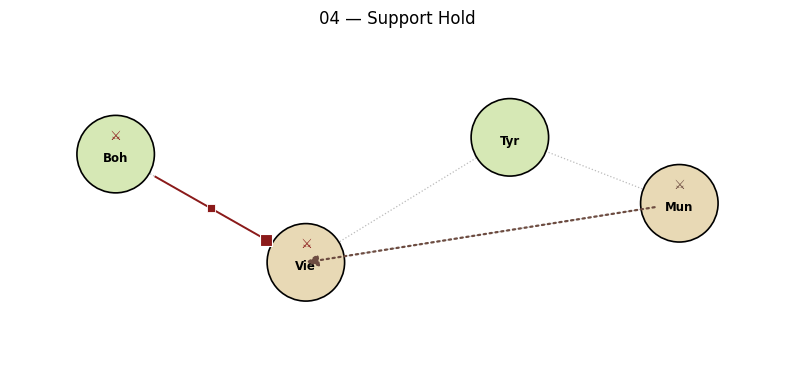
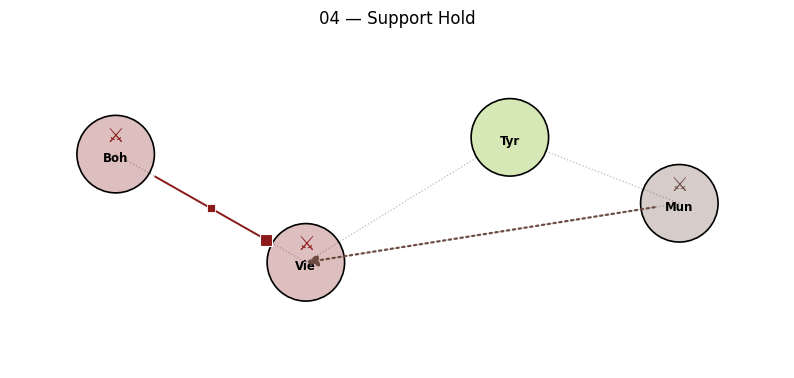
feat(dwex): nation-tinted node fills (alpha 0.28, occupied fields echo their unit's nation colour), unit symbols +50%, dotted full-Voronoi borders(fences) mode
- occupied circles: to_rgba(nation, 0.28) fill (empty fields keep terrain
  colour); dislodged X overlay slightly raised (no label collision)
- borders(fences): exact bounded Voronoi cells (half-plane clipping,
  Sutherland-Hodgman, pure python), dotted cell borders, edge-to-edge
  soap-bubble tiling; borders pragma documented in DWEX-language.md
- examples re-rendered (nation tint + bigger glyphs); x2 probe verified

Changed region(s): [[0.0907, 0.291, 0.2116, 0.5238], [0.3325, 0.582, 0.4534, 0.8148], [0.8463, 0.4656, 0.8766, 0.5238]]

diff --git a/project/dipworkpy/tools/dwex/render_png.py b/project/dipworkpy/tools/dwex/render_png.py
@@ -12,6 +12,7 @@ import numpy as np
 
 matplotlib.use("Agg")
 import matplotlib.pyplot as plt
+from matplotlib.colors import to_rgba
 from matplotlib.patches import Circle, FancyArrowPatch
 from matplotlib.path import Path as MplPath
 
@@ -452,45 +453,90 @@ def render_png(doc: DwexDocument, out: Path) -> None:
     #   "edges"  (default): subtle dotted light-gray segments between the
     #            neighbour centres; NEVER curved (visual contract: curves
     #            read as support arrows)
-    #   "fences" : Voronoi-style border lines — the perpendicular bisector
-    #            between each neighbouring pair, like map borders
+    #   "fences" : a FULL Voronoi diagram — every cell border is drawn as a
+    #            closed polygon (soap-bubble pattern covering the area,
+    #            DOTTED like the adjacency edges), computed by half-plane
+    #            clipping
     #   "none"   : suppress adjacency drawing entirely
     borders = (doc.pragmas.get("borders") or "edges").strip().lower()
     if borders not in ("edges", "fences", "none"):
         borders = "edges"
-    for e in doc.edges:
-        if e.a not in pos or e.b not in pos:
-            continue
-        x1, y1 = pos[e.a]
-        x2, y2 = pos[e.b]
-        if borders == "none":
-            continue
-        if borders == "edges":
+    if borders == "fences":
+        # Exact bounded Voronoi cells: start from the canvas rectangle and
+        # clip it against the perpendicular bisector toward every other
+        # node (Sutherland-Hodgman; keep the side of the cell's own node).
+        # Pure python, O(N^2) -- trivial for board-sized node counts.
+        pts_all = [pos[f.name] for f in doc.fields if f.name in pos]
+        xs_all = [p[0] for p in pos.values()]
+        ys_all = [p[1] for p in pos.values()]
+        pad = 0.6
+        bx0, bx1 = min(xs_all) - pad, max(xs_all) + pad
+        by0, by1 = min(ys_all) - pad, max(ys_all) + pad
+
+        def _clip_cell(px: float, py: float) -> List:
+            cell = [
+                (bx0, by0),
+                (bx1, by0),
+                (bx1, by1),
+                (bx0, by1),
+            ]
+            for qx, qy in pts_all:
+                if (qx, qy) == (px, py):
+                    continue
+                mx, my = (px + qx) / 2.0, (py + qy) / 2.0
+                # half-plane: keep points with (p - m) . (p0 - m) >= 0
+                cx, cy = px - mx, py - my
+                outp: List = []
+                n = len(cell)
+                for i in range(n):
+                    ax_, ay_ = cell[i]
+                    bx_, by_ = cell[(i + 1) % n]
+                    da = (ax_ - mx) * cx + (ay_ - my) * cy
+                    db = (bx_ - mx) * cx + (by_ - my) * cy
+                    if da >= 0:
+                        outp.append((ax_, ay_))
+                        if db < 0:
+                            t = da / (da - db)
+                            outp.append((ax_ + t * (bx_ - ax_), ay_ + t * (by_ - ay_)))
+                    elif db >= 0:
+                        t = da / (da - db)
+                        outp.append((ax_ + t * (bx_ - ax_), ay_ + t * (by_ - ay_)))
+                cell = outp
+                if not cell:
+                    break
+            return cell
+
+        for f in doc.fields:
+            if f.name not in pos:
+                continue
+            px, py = pos[f.name]
+            cell = _clip_cell(px, py)
+            if len(cell) < 3:
+                continue
+            xs = [p[0] for p in cell] + [cell[0][0]]
+            ys = [p[1] for p in cell] + [cell[0][1]]
+            ax.plot(xs, ys, color="#9a9a9a", linestyle=":", lw=1.1, zorder=1)
+    else:
+        for e in doc.edges:
+            if e.a not in pos or e.b not in pos:
+                continue
+            x1, y1 = pos[e.a]
+            x2, y2 = pos[e.b]
+            if borders == "none":
+                continue
             ax.plot([x1, x2], [y1, y2], color="#bbbbbb", linestyle=":", lw=0.9, zorder=1)
-        else:  # fences — perpendicular bisector between the neighbours
-            mx, my = (x1 + x2) / 2.0, (y1 + y2) / 2.0
-            dx, dy = x2 - x1, y2 - y1
-            length = math.hypot(dx, dy) or 1.0
-            nx, ny = -dy / length, dx / length
-            half = 0.6 * length / 2.0
-            other = [math.hypot(pos[o][0] - mx, pos[o][1] - my) for o in pos if o not in (e.a, e.b)]
-            if other:
-                half = min(half, min(other) / 2.0)
-            ax.plot(
-                [mx - nx * half, mx + nx * half],
-                [my - ny * half, my + ny * half],
-                color="#bbbbbb",
-                linestyle=":",
-                lw=1.1,
-                zorder=1,
-            )
     # fields — the field NAME lives INSIDE the circle (arrowheads land at the
-    # circle edge and stay visible instead of disappearing under a label);
-    # the unit is drawn as a nation-coloured icon in the circle's top:
-    # A = filled square, F = filled triangle.
+    # circle edge and stay visible instead of disappearing under a label).
+    # Occupied fields are tinted with the sitting unit's NATION colour at
+    # ~20% opacity so the circle visually belongs to the same nation as its
+    # arrows and unit symbol; empty fields keep the pale terrain colour.
+    unit_nation_by_field = {u.current: u.nation for u in doc.units}
     for f in doc.fields:
         x, y = pos[f.name]
         fc = FIELD_COLORS.get(f.type, "#FFFFFF")
+        nation = unit_nation_by_field.get(f.name)
+        if nation is not None:
+            fc = to_rgba(_nation_color(nation), 0.28)
         ax.add_patch(Circle((x, y), radius, facecolor=fc, edgecolor="black", lw=1.2, zorder=2))
         ax.text(
             x,
@@ -535,13 +581,13 @@ def render_png(doc: DwexDocument, out: Path) -> None:
             symbol,
             ha="center",
             va="center",
-            fontsize=9.5,
+            fontsize=14.25,
             fontweight="bold",
             color=color,
             zorder=6,
         )
         if u.current in dislodged_fields:
-            ax.text(x, y + 0.105, "\u2716", ha="center", va="center", fontsize=13, color="red", zorder=7)
+            ax.text(x, y + 0.125, "\u2716", ha="center", va="center", fontsize=17, color="red", zorder=7)
 
     # All orders share the orthogonal axes:
     #   shape  = order type (mve filled-triangle, msup open-V, hsup square, con hexagon)

diff --git a/project/doc/DWEX-language.md b/project/doc/DWEX-language.md
@@ -245,6 +245,7 @@ Currently used pragmas:
 
 | Pragma | Effect |
 |--------|--------|
+| `borders(edges\|fences\|none)` | How adjacency is visualized: `edges` (default) draws subtle dotted lines between neighbour centres; `fences` draws a FULL Voronoi diagram — every field sits in its own closed cell (exact bounded cells via half-plane clipping), borders dotted, soap-bubble pattern tiling the canvas; `none` suppresses adjacency drawing. Rendering only, never adjudication |
 | `no-mid-arrows` | Suppress midpoint arrows on support/convoy curves |
 | `field-jitter(<float>)` | Tune random-looking deterministic field label/unit offset |
 | `layout-fill` | Stretch the node coordinates over the whole figure area, then a bounded Lloyd relaxation (Voronoi-cell centroids) evens out dense clusters; the neighborhood structure is preserved. Best for dense boards (>15 nodes) |
